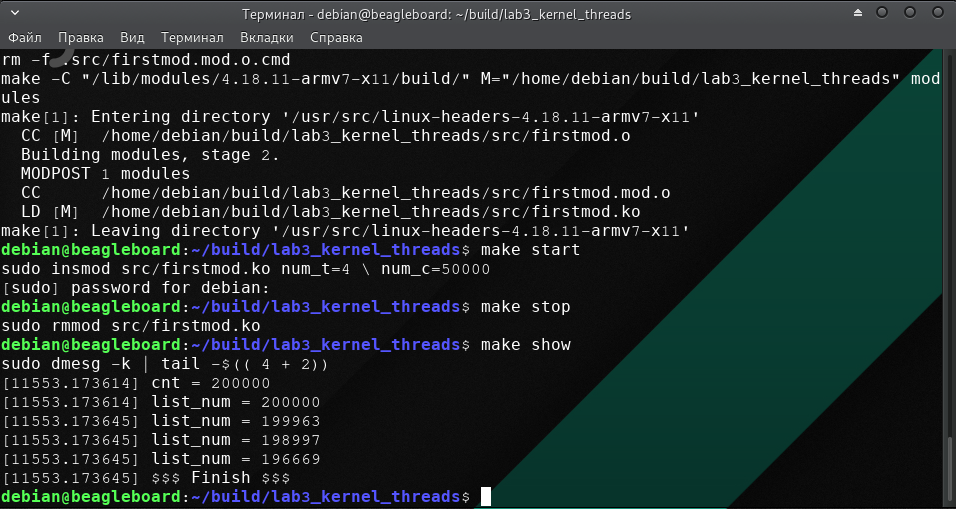
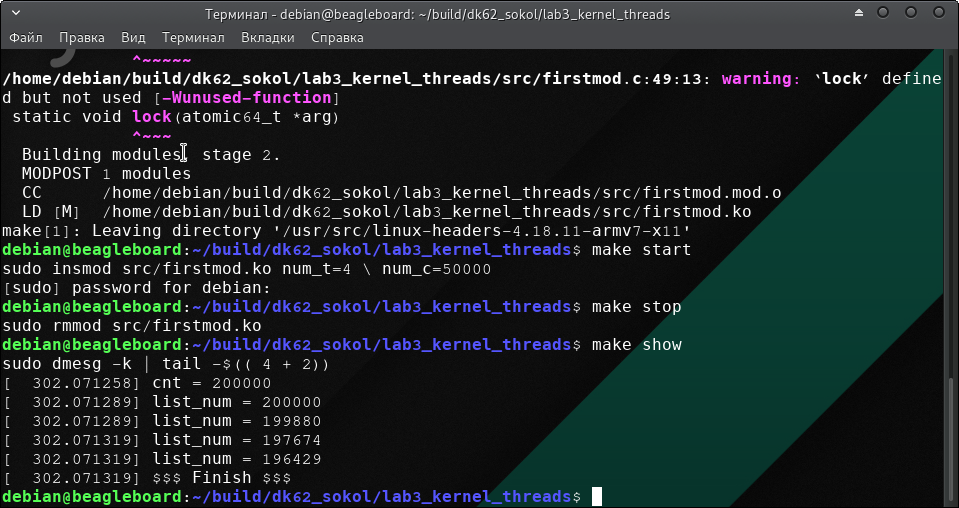
+updates

Changed region(s): [[0.0, 0.0, 1.0, 1.0], [0.91, 0.0, 1.0, 0.0295], [0.0, 0.0, 0.0303, 0.0295]]

diff --git a/kpi/dk62_sokol/lab3_kernel_threads/README.rst b/kpi/dk62_sokol/lab3_kernel_threads/README.rst
@@ -198,7 +198,7 @@
 
 зображено нижче:
 
-.. image:: img/lab3_x86-synhr.png
+.. image:: img/lab3_x86+synhr.png
 
 
 * У зв'язку з тим, що використовуючи синхронізацію на ВВХМ виникла помилка:
@@ -243,6 +243,6 @@
 
 **Висновок:**
 
-Отже, з результатів можна сказати, що для ``x86`` не використовуючи функції ``lock()/unlock()`` результат ітерацій буде невірним (як і в першій лабораторній роботі), а з використанням даних функцій - вірний. Це пов'язано з тим, що потоки можуть переривати один одного, в результаті будуть відбуватися втрати ітерацій.
+Отже, з результатів можна сказати, що для ``x86`` не використовуючи функції ``lock()/unlock()`` результат ітерацій буде невірним (як і в першій лабораторній роботі), а з використанням даних функцій - вірний. Це пов'язано з тим, що потоки можуть переривати один одного, в результаті будуть відбуватися втрати ітерацій. З результатів для платформи ``arm`` можна побачити, що використання функцій ``lock()/unlock()`` не впливають, і результат завжди буде правильним.
 
 
